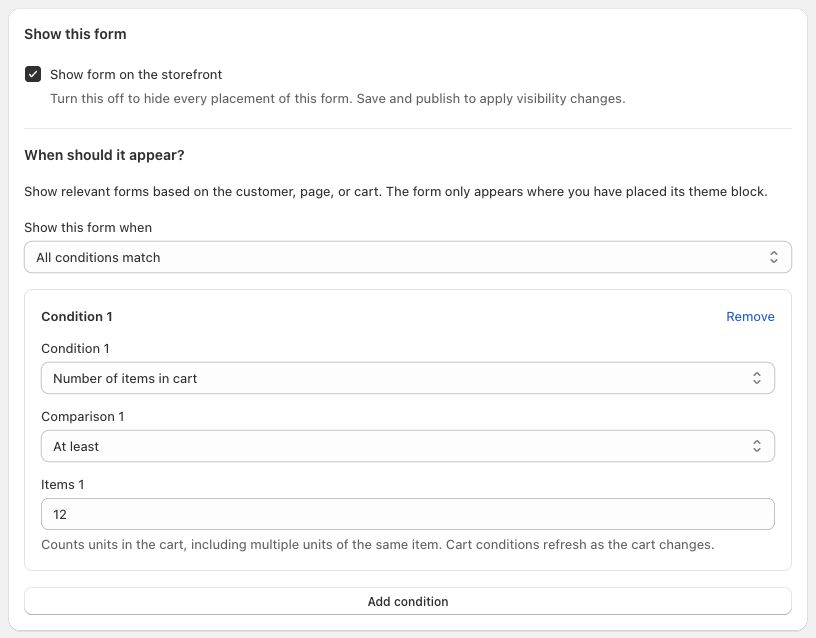
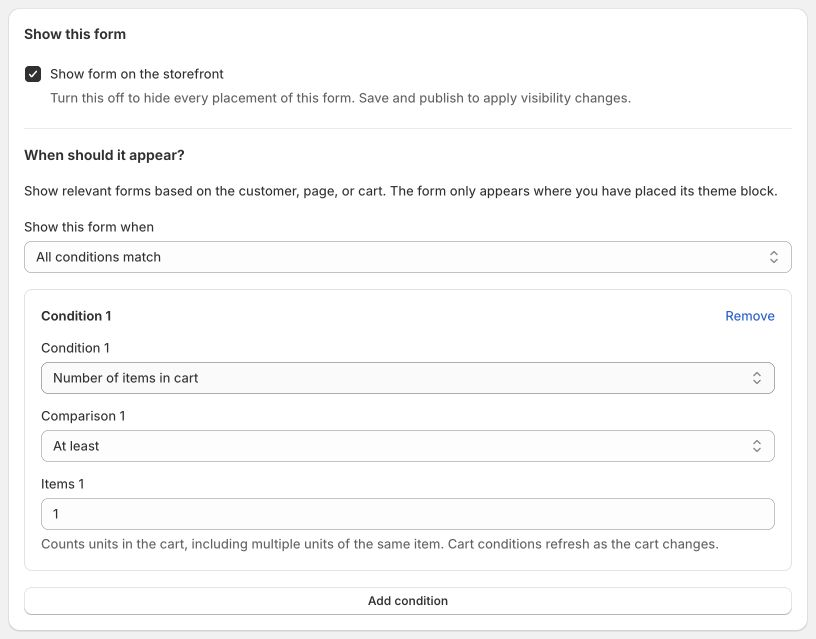
Document cart quote forms and refresh template screenshots

diff --git a/app/forms.md b/app/forms.md
@@ -33,11 +33,11 @@ These forms appear in your online store. To collect input from staff using **Run
 
 You can add up to 50 fields. Under a selected field’s **Field data**, its **Field key** identifies the answer for your tasks. Keep this key stable once a task uses it; you can still change the question’s label.
 
-There are eight starters: **Warranty request**, **Service or repair request**, **Request a quote**, **Bulk order quote**, **Wholesale application**, **Customization request**, **Customer feedback**, and **Basic form**. Longer starters have two or three steps; some include conditional questions and optional uploads. Every field and message is editable. **Bulk order quote** also starts with a visibility condition: show the form when the cart contains at least 12 items. Change the threshold in **Visibility** and place the form in your theme. This condition does not include the cart’s contents in the submission; the template asks visitors to describe the products and quantities they want. Choose your own webhook in Submission settings before publishing.
+There are eight starters: **Warranty request**, **Service or repair request**, **Request a quote**, **Request a quote from your cart**, **Wholesale application**, **Customization request**, **Customer feedback**, and **Basic form**. Longer starters have two or three steps; some include conditional questions and optional uploads. Every field and message is editable. **Request a quote from your cart** starts with a button that opens the form, includes the current cart with the submission, and stays hidden while the cart is empty. Place it on your cart page and connect the draft-order task described below. Change its conditions in **Visibility** to suit your workflow. Choose your own webhook in Submission settings before publishing.
 
 Templates provide questions, not an approval or booking workflow. Your subscribed tasks handle each request. Changes to the starter library do not overwrite forms you have already created.
 
-<figure><img src="../.gitbook/assets/storefront-forms-templates.png" alt="Storefront form templates in Mechanic, including quote requests, wholesale applications, and service requests"><figcaption><p>Start with the workflow you need, then make the questions your own.</p></figcaption></figure>
+<figure><img src="../.gitbook/assets/storefront-forms-templates.png" alt="Storefront form templates in Mechanic, including quote requests, cart quotes, warranties, and service requests"><figcaption><p>Start with the workflow you need, then make the questions your own.</p></figcaption></figure>
 
 <figure><img src="../.gitbook/assets/storefront-forms-builder.png" alt="The quote-request form builder with a field list, live preview, and heading and text settings"><figcaption><p>Edit questions beside a live preview. This quote-request starter groups its questions into two steps.</p></figcaption></figure>
 
@@ -49,12 +49,19 @@ Use **Try form** to check the flow. Visitors can go Back without losing their an
 
 Your theme supplies the form’s fonts and colors. You do not need to edit theme code or write storefront JavaScript to use a form block.
 
+### Open the form from a button
+
+In **Build form → Heading and text**, set **Show on the page** to **Button that opens the form** and choose the **Open form button text**. The form opens in the same place on the page. Visitors can close and reopen it without losing their answers. Choose **Full form** to display the questions immediately.
+
+This option works with any form. Visibility conditions apply to both the button and the form, and your theme still supplies the fonts and colors. Save and publish to change the storefront.
+
 ## Collect leads and inquiries
 
 Use a form to learn what a potential customer needs, then let your tasks deliver the details to the people and systems that will handle the request. These starters are ready to customize:
 
 | Start with | What you can learn | Connect tasks to |
 | --- | --- | --- |
+| **Request a quote from your cart** | The products and quantities in the current cart, plus contact details and requirements. | Create a Shopify draft order for your team to review. |
 | **Request a quote** | The product or project, quantity, requirements, and needed-by date. | Email your sales team and save each inquiry in a Google Sheet for follow-up. |
 | **Wholesale application** | The business, how it sells, products of interest, and estimated order quantity. | Email the team that reviews applications and keep a record in Shopify metaobjects. |
 | **Service or repair request** | The service needed, product or item, supporting photos, and preferred date. | Email your service team, including attachments when enabled, and save requests for review. |
@@ -81,6 +88,7 @@ Writing your own task? See [Storefront form submissions](../platform/webhooks.md
 
 After choosing a webhook, you can use these tasks on its event topic. Saving or publishing a form does not install these tasks automatically:
 
+- [Create a draft order from the cart](https://tasks.mechanic.dev/create-a-draft-order-from-the-cart): turn a cart quote request into a Shopify draft order for review. Requires cart contents to be enabled on the form.
 - [Google Sheets task](https://tasks.mechanic.dev/save-mechanic-form-submissions-to-a-google-sheet): save answers as spreadsheet columns, with an option to upload files to Google Drive and save their links. Files are not automatically shared publicly.
 - [Email task](https://tasks.mechanic.dev/email-mechanic-form-submissions): send answers to your team, with an option to include uploaded files as attachments.
 - [Shopify metaobjects task](https://tasks.mechanic.dev/save-mechanic-form-submissions-to-shopify-metaobjects): save all answers in a standard Shopify entry, with storefront access off.
@@ -123,6 +131,22 @@ The same setup works for wholesale and service inquiries: choose the relevant st
 
 Google Sheets appends may duplicate a row when an event is rerun or a visitor resends. The task includes IDs for finding repeats and disables ambiguous-write retries; inspect the sheet before manually retrying a failed append. The metaobject task updates the same entry when the same Mechanic event is rerun. A new HTTP submission creates a new event and a separate entry, even with the same browser submission ID.
 
+### Example: request a quote from the cart
+
+1. Create a form from **Request a quote from your cart**. Keep its contact email field. In **Submission settings**, **Include the cart with each submission** is already selected.
+2. Create and select a webhook for quote requests, then save and publish the form.
+3. Install [Create a draft order from the cart](https://tasks.mechanic.dev/create-a-draft-order-from-the-cart). Set **Mechanic webhook event topic** to the webhook’s topic, choose the published form in **Form**, and leave **Email field key** as `email` unless you changed that field’s key. Leave **Shared secret** and **Mechanic webhook URL** empty for this form setup. Save and enable the task, completing Mechanic’s normal permission update if requested.
+4. In the form’s **Theme** tab, choose **Add to cart page**. Select the form in its block, position the Apps section near the cart summary, and save the theme. The cart page must support app blocks or an Apps section. This does not add the form to a cart drawer; that needs separate theme customization.
+5. Add a product to the cart, open the form, and submit a test request. Inspect the Mechanic event, the task’s Shopify action, and the resulting draft order. Test as both a guest and a signed-in customer.
+
+The form includes products, variants, quantities, and line item properties from the cart when submitted. Shopify supplies current variant prices when the task creates the draft. Cart discounts, shipping rates, and displayed checkout totals are not copied. The task supports up to 100 ordinary variant lines; subscription and bundle items stop for separate review.
+
+Shopify supplies signed customer context automatically. The task verifies it before linking a signed-in customer’s account; a guest’s entered email is contact information, not proof of an account. There is no signing key to enter in form settings.
+
+The customer’s confirmation means the request was received. Creating the draft happens in the background; this task does not send an invoice or clear the cart. Your team reviews the draft before proceeding. Add the email or Google Sheets/Drive task on the same topic if you want uploaded files: draft notes contain file details, not the files themselves.
+
+Existing custom-button users can keep their current setup. When updating that task, follow its **Existing custom cart button** instructions to preserve the shared secret and webhook URL. This remains the same task in the library.
+
 ## Add the form to your theme
 
 1. Save your draft, then choose **Publish form**. Mechanic opens the **Theme** tab, which you can return to at any time.
@@ -151,7 +175,7 @@ Choose **Refresh** after saving a theme. Results can take up to 30 seconds to up
 
 ## Choose when a form appears
 
-Placement decides **where** a form can appear. Visibility decides **when** it appears there. For example, you could place a quote form on a product page and show it once the cart contains at least 12 items. The condition does not move the form into the cart.
+Placement decides **where** a form can appear. Visibility decides **when** it appears there. For example, place a cart quote form on the cart page and show it only when the cart contains items. A visibility condition alone does not move a form into the cart or include cart contents; placement and **Include the cart with each submission** control those separately.
 
 1. Open the form’s **Visibility** tab.
 2. Leave **Show form on the storefront** selected. With no conditions, everyone can see the form wherever you have placed its block. Turning this off hides every placement after you save and publish.
@@ -159,7 +183,7 @@ Placement decides **where** a form can appear. Visibility decides **when** it ap
 4. Save the draft, then **Publish changes**. As with questions and text, saving alone does not change the storefront.
 5. Once the form picker has synchronized, open a fresh storefront page to test both a matching and a nonmatching case. Reload already-open pages after publishing a new policy.
 
-<figure><img src="../.gitbook/assets/storefront-forms-visibility.png" alt="Visibility settings with Show form on the storefront selected and a condition requiring at least 12 items in the cart"><figcaption><p>The Bulk order quote starter includes this condition. Change the threshold, then save and publish to apply it wherever the form is placed.</p></figcaption></figure>
+<figure><img src="../.gitbook/assets/storefront-forms-visibility.png" alt="Visibility settings with Show form on the storefront selected and a condition requiring at least one item in the cart"><figcaption><p>The cart quote starter stays hidden while the cart is empty. Change the threshold, then save and publish to apply it wherever the form is placed.</p></figcaption></figure>
 
 ### Available conditions
 
@@ -180,7 +204,7 @@ Shopify checks customer tags while rendering the theme; the customer’s tag lis
 
 ### Examples
 
-- **Bulk quote:** start with **Bulk order quote**, which shows a quote form when **Number of items in cart** is **At least 12**, wherever you have placed that form.
+- **Cart quote:** start with **Request a quote from your cart**, which appears when **Number of items in cart** is **At least 1**. Place it on the cart page. For bulk inquiries only, increase the threshold, for example to 12.
 - **Product-specific service:** show a service request on a selected product’s page using **Product being viewed**.
 - **Wholesale inquiries:** show a form to signed-in customers whose **Customer tag** is `wholesale`. A tag condition already excludes signed-out visitors.
 
@@ -214,11 +238,11 @@ Other fields include text, email, phone, website, numbers, dates, time, date and
 
 ## Duplicate a form
 
-Save or discard any edits, then choose **Form actions → Duplicate form**. The copy starts as an unpublished draft in the same shop. It keeps the saved questions, data keys, steps, field conditions, visibility rules, text, and available webhook connection. Product, variant, and collection selections stay connected to this shop. It does not copy submissions or theme placements. Review its webhook and tasks before publishing; using the same webhook means the same subscribed tasks can process both forms.
+Save or discard any edits, then choose **Form actions → Duplicate form**. The copy starts as an unpublished draft in the same shop. It keeps the saved questions, data keys, steps, field conditions, visibility rules, button presentation, cart setting, text, and available webhook connection. Product, variant, and collection selections stay connected to this shop. It does not copy submissions or theme placements. Review its webhook and tasks before publishing; using the same webhook means the same subscribed tasks can process both forms.
 
 ## Copy a form to another shop
 
-Choose **Export JSON** to download the current form, including any valid unsaved edits. Fields, data keys, settings, steps, field conditions, visibility rules, and text are included. Answers, files, tasks, webhook credentials, and theme placements are not included.
+Choose **Export JSON** to download the current form, including any valid unsaved edits. Fields, data keys, settings, steps, field conditions, visibility rules, button presentation, cart setting, and text are included. Answers, files, tasks, webhook credentials, and theme placements are not included.
 
 In the destination shop, open **Storefront forms → Import form** and upload or paste the JSON. Review it, select that shop’s webhook or **Choose later**, then choose **Import as draft**. The new form starts unpublished and gets a new form ID. It needs a webhook before publishing.
 

diff --git a/platform/liquid/objects/event.md b/platform/liquid/objects/event.md
@@ -17,3 +17,20 @@ The Event object describes an incoming [event](../../../core/events/).
 *   `event.parent` – if applicable, a reference to the event that used an [Event action](../../../core/actions/event.md) to create this event; parents are available up to five generations deep (e.g. `{{ event.parent.parent.parent.parent.parent }}`), but no further
 
     In preview mode, this object _also_ contains a "preview" attribute, as in `event.preview`, set to `true`. (In all other modes, event objects do _not_ have this property.) When this attribute is present, the task should render actions that are indicative of what the merchant should expect the task to do – and these "preview" actions will be shown to the merchant. These actions will also be used to determine what Shopify permissions Mechanic will request from the merchant. [Learn more about preview actions](../../../core/tasks/previews/)
+
+## Storefront form customer
+
+For a [cart form submission](../../webhooks.md#cart-contents-and-customer-context), `event.storefront_form_customer` verifies the customer context Shopify signed when it rendered the form. It returns a hash with `id`: a Shopify customer ID string for a signed-in visitor, or `nil` for a signed guest.
+
+```liquid
+{% assign form_customer = event.storefront_form_customer %}
+{% if form_customer.id != nil %}
+  {% assign customer_gid = form_customer.id | prepend: "gid://shopify/Customer/" %}
+{% endif %}
+```
+
+A missing, invalid, altered, or expired proof on a form submission raises a Liquid error. An event without a form payload returns `nil`. Both Auto and Full request webhook modes are supported. Signature checks bind the shop, form, publication revision, webhook, customer, and render time. The proof must reach ingress within one hour; verification uses the event’s original receipt time, so queue delays and replaying that same event do not expire it.
+
+This identifies the customer Shopify rendered. It does not authenticate the entered answers or cart contents, authorize order editing, or make a submission single use. Validate inputs needed by your task. Repeated HTTP submissions can create separate events and actions.
+
+The helper is evaluated only when task code reads it, after normal webhook delivery. No additional verification request to Shopify or a special event topic is required. In task previews, use an illustrative customer fixture and render the actions needed for permission discovery, as usual.

diff --git a/platform/webhooks.md b/platform/webhooks.md
@@ -43,6 +43,14 @@ Treat all submitted data as visitor input and validate what your task needs. [Fo
 
 The form's confirmation acknowledges receipt, not completed task actions. See [Responses](#responses) for how queued processing works, and the [Forms guide](../app/forms.md#put-submissions-to-work) for email, Google Sheets/Drive, and Shopify metaobject tasks.
 
+### Cart contents and customer context
+
+With **Include the cart with each submission** enabled, the multipart body also contains `cart` as a JSON string and `customer_context` as a signed string. In Auto mode, read `event.data.cart`; in Full request mode, read `event.data.body.cart`. Parse the cart with `parse_json`. It contains up to 100 lines and 64 KB, including product/variant IDs, quantities, properties, and subscription/bundle indicators. Prices, discounts, and the private cart token are omitted.
+
+Cart contents and answers remain visitor input. To link a Shopify customer, use [`event.storefront_form_customer`](liquid/objects/event.md#storefront-form-customer) rather than trusting an entered email or customer ID. This helper verifies the context only when your task reads it. The submission is still an ordinary webhook event; other subscribed tasks are unaffected.
+
+The [cart quote walkthrough](../app/forms.md#example-request-a-quote-from-the-cart) uses the existing draft-order task, which validates the cart and lets Shopify supply prices.
+
 ## Configuration
 
 <figure><img src="../.gitbook/assets/mechanic-webhooks.png" alt="The Mechanic webhooks section in Settings, showing webhook name, event topic, event data mode, and webhook URL fields"><figcaption></figcaption></figure>
